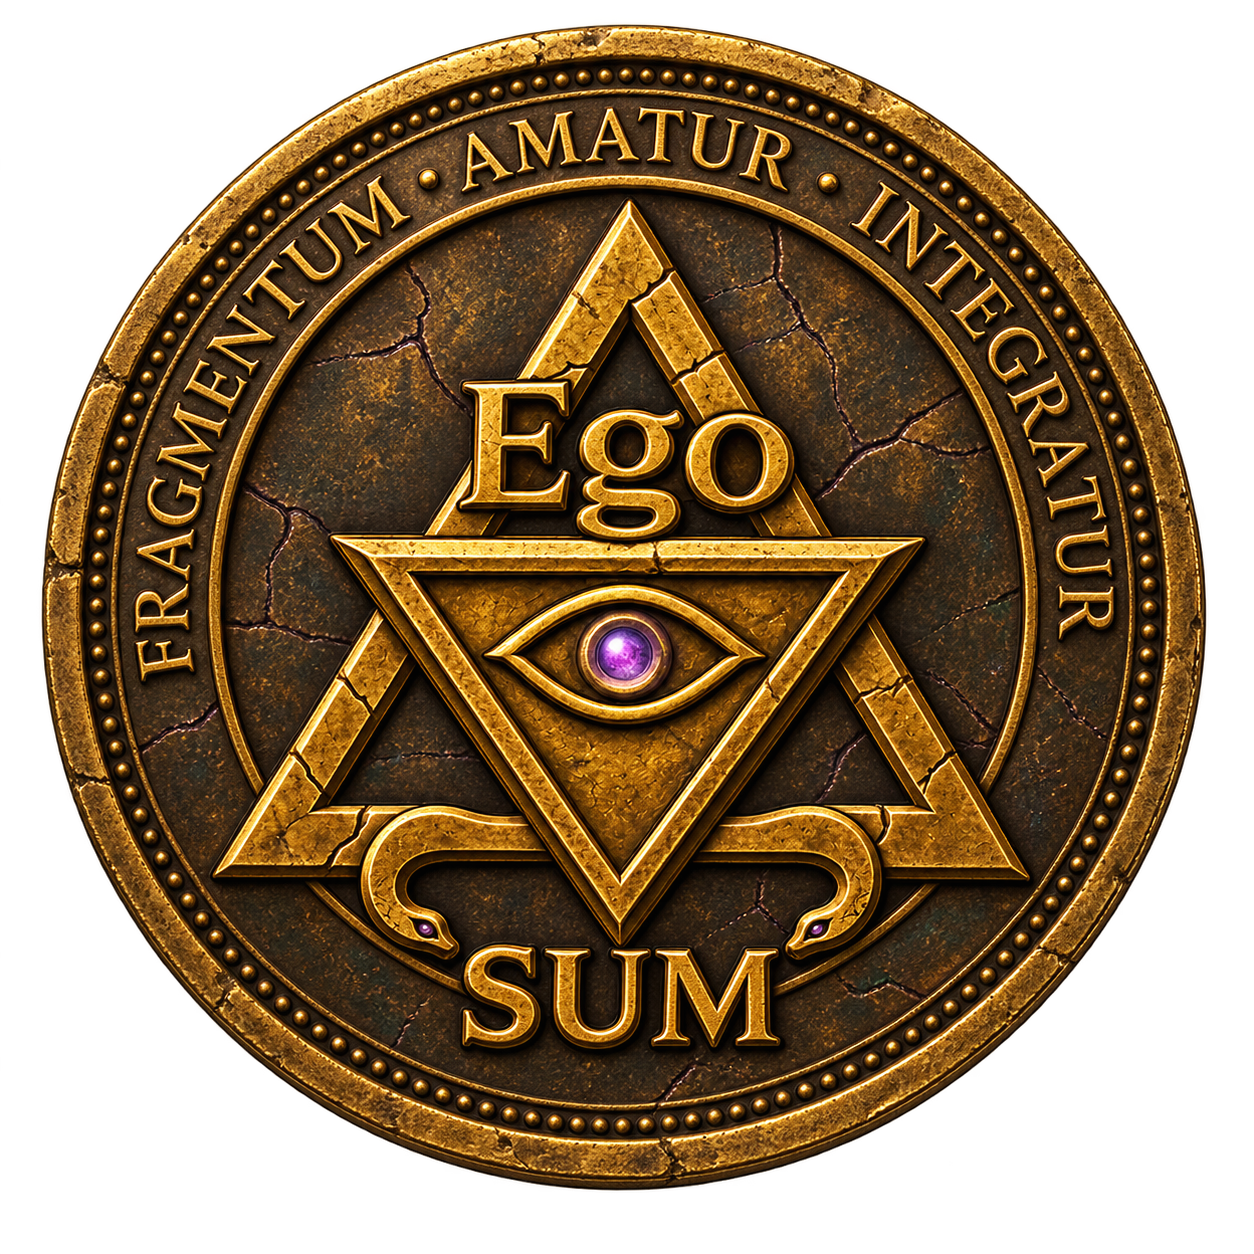
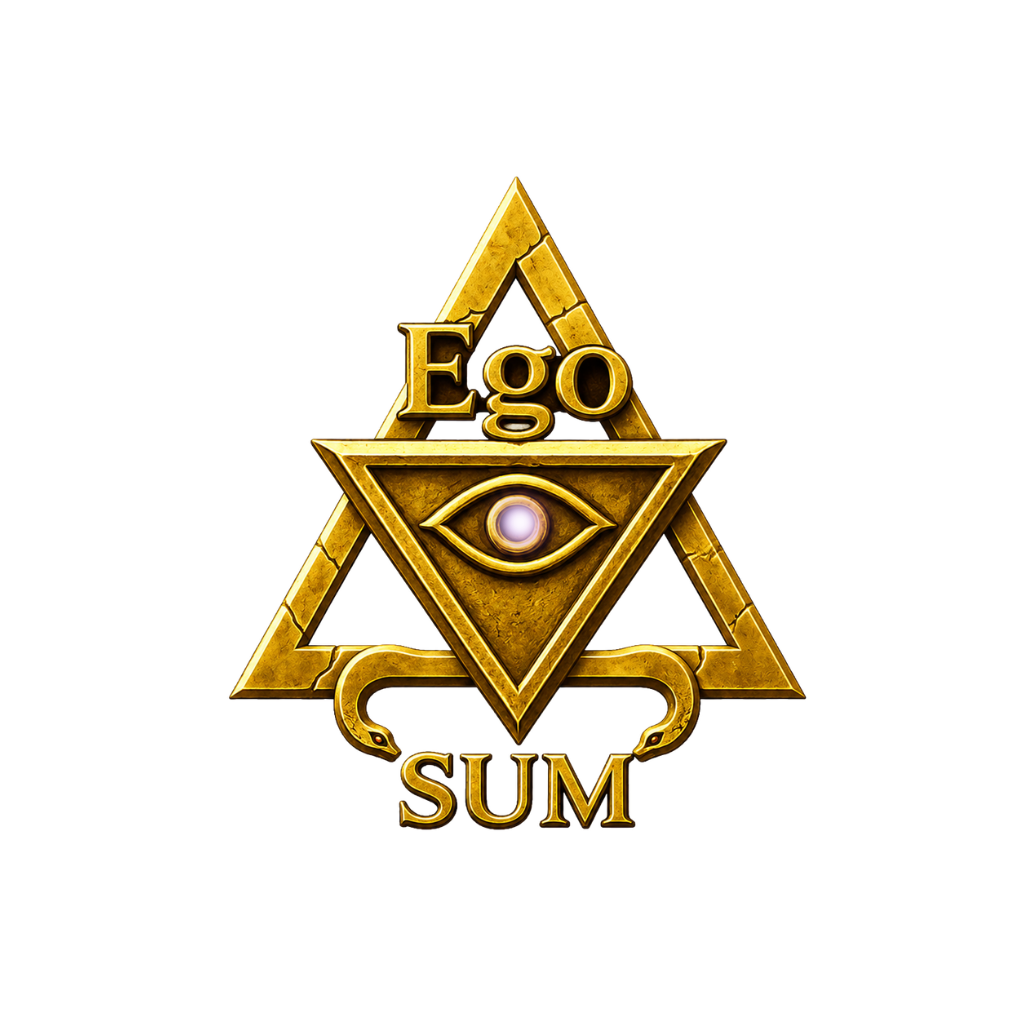
Add Metalkimia school entry and refreshed seals

diff --git a/app/globals.css b/app/globals.css
@@ -109,6 +109,11 @@ main,footer{position:relative;z-index:1}
 .nav-stray-sheep>span{position:absolute;left:50%;top:calc(100% + 15px);padding:8px 11px;transform:translate(-50%,-5px);border:1px solid rgba(224,70,158,.28);border-radius:9px;background:rgba(10,7,18,.97);color:#aaa1aa;font-size:.58rem;letter-spacing:.13em;text-transform:uppercase;white-space:nowrap;opacity:0;visibility:hidden;transition:.22s ease;box-shadow:0 12px 28px rgba(0,0,0,.4)}
 .nav-stray-sheep:hover>img,.nav-stray-sheep:focus-visible>img{transform:scale(1.09) rotate(-2deg);filter:saturate(.95) brightness(.95) drop-shadow(0 0 11px rgba(224,70,158,.26))}
 .nav-stray-sheep:hover>span,.nav-stray-sheep:focus-visible>span{opacity:1;visibility:visible;transform:translate(-50%,0)}
+.nav-metalkimia{position:relative;display:grid!important;place-items:center;width:48px;height:48px;padding:0!important;background:none!important;color:inherit!important;overflow:visible}
+.nav-metalkimia>img{width:46px;height:46px;object-fit:contain;filter:drop-shadow(0 0 8px rgba(150,123,69,.2));transition:transform .3s ease,filter .3s ease}
+.nav-metalkimia>span{position:absolute;left:50%;top:calc(100% + 15px);padding:8px 11px;transform:translate(-50%,-5px);border:1px solid rgba(150,123,69,.32);border-radius:9px;background:rgba(10,7,18,.97);color:#aaa1aa;font-size:.58rem;letter-spacing:.13em;text-transform:uppercase;white-space:nowrap;opacity:0;visibility:hidden;transition:.22s ease;box-shadow:0 12px 28px rgba(0,0,0,.4)}
+.nav-metalkimia:hover>img,.nav-metalkimia:focus-visible>img{transform:scale(1.09);filter:drop-shadow(0 0 13px rgba(150,123,69,.4))}
+.nav-metalkimia:hover>span,.nav-metalkimia:focus-visible>span{opacity:1;visibility:visible;transform:translate(-50%,0)}
 .nav-dropdown{position:absolute;top:100%;left:50%;transform:translate(-50%,-6px);margin-top:16px;background:rgba(10,7,18,.97);backdrop-filter:blur(14px);border:1px solid var(--border-bright);border-radius:14px;padding:8px;min-width:180px;opacity:0;visibility:hidden;transition:opacity .2s,transform .2s,visibility .2s;box-shadow:var(--shadow-card);z-index:30}
 .nav-item:hover .nav-dropdown,.nav-item:focus-within .nav-dropdown{opacity:1;visibility:visible;transform:translate(-50%,0)}
 .nav-dropdown a{display:block;padding:10px 16px;border-radius:8px;font-size:.72rem;letter-spacing:.14em;text-transform:uppercase;color:var(--text-dim);text-decoration:none;white-space:nowrap}
@@ -155,6 +160,9 @@ main,footer{position:relative;z-index:1}
   .mobile-menu a.mobile-stray-sheep{display:flex;align-items:center;gap:15px;color:var(--gold)}
   .mobile-stray-sheep span{background:var(--gold-metallic);-webkit-background-clip:text;background-clip:text;color:transparent}
   .mobile-stray-sheep img{width:54px;height:auto;object-fit:contain;filter:saturate(.82) brightness(.86)}
+  .mobile-menu a.mobile-metalkimia{display:flex;align-items:center;gap:15px;color:var(--gold)}
+  .mobile-metalkimia span{background:var(--gold-metallic);-webkit-background-clip:text;background-clip:text;color:transparent}
+  .mobile-metalkimia img{width:54px;height:54px;object-fit:contain;filter:drop-shadow(0 0 8px rgba(150,123,69,.24))}
 }
 
 /* Hero */
@@ -445,7 +453,8 @@ footer .copy{font-size:.8rem;letter-spacing:.06em}
 .mpa-symbol-gateway{display:grid;grid-template-columns:repeat(4,minmax(0,1fr));gap:clamp(12px,2vw,28px);margin-top:64px;padding-top:36px;border-top:1px solid var(--border)}
 .mpa-symbol-gateway a{position:relative;display:flex;min-height:210px;flex-direction:column;align-items:center;justify-content:center;gap:14px;padding:18px;text-decoration:none;color:var(--text-dim);transition:transform .35s ease,color .3s ease}
 .mpa-symbol-gateway a:before{content:"";position:absolute;inset:15% 18%;border-radius:50%;background:radial-gradient(circle,rgba(183,64,146,.13),transparent 68%);opacity:.35;transition:opacity .35s ease,transform .35s ease}
-.mpa-symbol-gateway img{position:relative;width:clamp(100px,11vw,150px);height:clamp(100px,11vw,150px);object-fit:contain;filter:drop-shadow(0 16px 18px rgba(0,0,0,.52));transition:transform .45s cubic-bezier(.22,1,.36,1),filter .35s ease}
+.mpa-symbol-gateway img{position:relative;width:clamp(165px,15vw,220px);height:clamp(165px,15vw,220px);object-fit:contain;filter:drop-shadow(0 16px 18px rgba(0,0,0,.52));transition:transform .45s cubic-bezier(.22,1,.36,1),filter .35s ease}
+.mpa-symbol-gateway a:last-child img{width:clamp(180px,17vw,240px);height:clamp(180px,17vw,240px)}
 .mpa-symbol-gateway span{position:relative;font-size:.66rem;letter-spacing:.16em;text-align:center;text-transform:uppercase}
 .mpa-symbol-gateway a:hover{transform:translateY(-5px);color:var(--gold-bright)}
 .mpa-symbol-gateway a:hover:before{opacity:.8;transform:scale(1.15)}
@@ -535,7 +544,7 @@ footer .copy{font-size:.8rem;letter-spacing:.06em}
   .draft-grid{grid-template-columns:1fr!important}
   .pillar-links{grid-template-columns:1fr}
   .pillar-link-card{grid-template-columns:22px 82px minmax(0,1fr) auto;min-height:140px;gap:12px;padding:18px 16px}.pillar-link-symbol{width:78px;height:78px}.pillar-link-card h3{font-size:1.15rem}
-  .mpa-about-heading{align-items:flex-end;gap:18px}.mpa-about-heading>img{width:104px}.mpa-symbol-gateway{grid-template-columns:repeat(2,1fr);margin-top:42px}.mpa-symbol-gateway a{min-height:170px;padding:10px}.mpa-symbol-gateway img{width:112px;height:112px}
+  .mpa-about-heading{align-items:flex-end;gap:18px}.mpa-about-heading>img{width:104px}.mpa-symbol-gateway{grid-template-columns:repeat(2,1fr);margin-top:42px}.mpa-symbol-gateway a{min-height:210px;padding:10px}.mpa-symbol-gateway img{width:145px;height:145px}.mpa-symbol-gateway a:last-child img{width:160px;height:160px}
 }
 
 /* Primera misión posterior al desafío · Ego SUM */

diff --git a/app/components/SiteHeader.tsx b/app/components/SiteHeader.tsx
@@ -30,7 +30,7 @@ export function SiteHeader() {
       children: [
         { href: "/mpa/que-es-mpa", label: t.nav.queEsMpa },
         { href: "/mpa/universe", label: t.nav.mpaUniverse },
-        { href: "/mpa/transmuta", label: t.nav.mpaTransmuta },
+        { href: "/mpa/ego-sum", label: "Ego SUM" },
         { href: "https://mpaflow.com", label: t.nav.mpaFlow },
         { href: "https://evigilatarot.rociodopazo.com/tarot", label: t.nav.mpaEvigila },
         { href: "/mpa/publishing-house", label: t.nav.mpaPublishingHouse },
@@ -116,10 +116,16 @@ export function SiteHeader() {
               </Link>
             )}
             {index === 1 && (
-              <a className="nav-stray-sheep" href="/stray-sheep" aria-label="Stray Sheep" title="Stray Sheep">
-                <Image src="/stray-sheep-glasses.png" alt="" width={120} height={44} />
-                <span role="tooltip">Stray Sheep</span>
-              </a>
+              <>
+                <a className="nav-stray-sheep" href="/stray-sheep" aria-label="Stray Sheep" title="Stray Sheep">
+                  <Image src="/stray-sheep-glasses.png" alt="" width={120} height={44} />
+                  <span role="tooltip">Stray Sheep</span>
+                </a>
+                <a className="nav-metalkimia" href="/mpa/transmuta/pulsus-fractum?entry=mpa" aria-label="Escuela de Metalkimia · Pulsus Fractum" title="Escuela de Metalkimia · Pulsus Fractum">
+                  <Image src="/escuela-metalkimia-seal.png" alt="" width={64} height={64} />
+                  <span role="tooltip">Escuela de Metalkimia</span>
+                </a>
+              </>
             )}
             </Fragment>
           ))}
@@ -181,10 +187,16 @@ export function SiteHeader() {
           )
           }
           {index === 1 && (
-            <a className="mobile-stray-sheep" href="/stray-sheep" onClick={closeMobileMenu}>
-              <Image src="/stray-sheep-glasses.png" alt="" width={90} height={34} />
-              <span>Stray Sheep</span>
-            </a>
+            <>
+              <a className="mobile-stray-sheep" href="/stray-sheep" onClick={closeMobileMenu}>
+                <Image src="/stray-sheep-glasses.png" alt="" width={90} height={34} />
+                <span>Stray Sheep</span>
+              </a>
+              <a className="mobile-metalkimia" href="/mpa/transmuta/pulsus-fractum?entry=mpa" onClick={closeMobileMenu}>
+                <Image src="/escuela-metalkimia-seal.png" alt="" width={52} height={52} />
+                <span>Escuela de Metalkimia</span>
+              </a>
+            </>
           )}
           </Fragment>
         ))}

diff --git a/app/mpa/ego-sum/page.tsx b/app/mpa/ego-sum/page.tsx
@@ -52,7 +52,7 @@ export default function PrimerDestelloPage() {
             <div className="ego-sum-hero-copy">
               <p className="destello-kicker">Ego SUM · {tx("Laboratorio del Yo", "Laboratory of the Self")}</p>
               <span className="destello-medal">
-                <Image src="/mpa-coin-ego-sum-v3-antique.png" alt="Medalla Ego SUM" width={150} height={150} priority />
+                <Image src="/ego-sum-seal.png" alt="Medalla Ego SUM" width={150} height={150} priority />
               </span>
               <p className="destello-welcome">{tx("Bienvenido al laboratorio", "Welcome to the laboratory")}</p>
               <h1>{tx("La forma que llamás “yo”", "The form you call “I”")}</h1>
@@ -84,7 +84,7 @@ export default function PrimerDestelloPage() {
           <section className="ego-sum-sequence">
             <Image
               className="ego-sum-sequence-medal"
-              src="/mpa-coin-ego-sum-v3-antique.png"
+              src="/ego-sum-seal.png"
               alt="Medalla Ego SUM"
               width={1254}
               height={1254}

diff --git a/app/mpa/page.tsx b/app/mpa/page.tsx
@@ -13,8 +13,7 @@ export default function MpaPage() {
   const BRANDS = [
     { href: "/mpa/que-es-mpa", label: t.nav.queEsMpa, symbol: "/mpa-general-logo.png" },
     { href: "/mpa/universe", label: t.nav.mpaUniverse, symbol: "/mpa-universe-logo.png" },
-    { href: "/mpa/transmuta", label: t.nav.mpaTransmuta, symbol: "/mpa-coin-transmuta.png" },
-    { href: "/mpa/portal", label: "Ego SUM", symbol: "/mpa-coin-ego-sum-v2-transparent.png" },
+    { href: "/mpa/ego-sum", label: "Ego SUM", symbol: "/ego-sum-seal.png" },
     { href: "https://mpaflow.com", label: t.nav.mpaFlow, symbol: "/mpa-flow-logo.png" },
     { href: "/mpa/publishing-house", label: t.nav.mpaPublishingHouse, symbol: "/mpa-publishing-house-logo.png" },
   ];

diff --git a/app/page.tsx b/app/page.tsx
@@ -133,7 +133,7 @@ export default function Home() {
               </div>
               <div className="note-card reveal">
                 <p className="note-kicker">Ego SUM</p>
-                <Image className="ego-sum-emblem" src="/ego-sum-logo.png" alt="Ego SUM" width={220} height={220} />
+                <Image className="ego-sum-emblem" src="/ego-sum-seal.png" alt="Ego SUM" width={220} height={220} />
                 <h3>{t.revelacion.correspondencesTitle}</h3>
                 <p>{t.revelacion.correspondencesBody}</p>
                 <p className="fragment-closing">{t.revelacion.integrationQuote}</p>

diff --git a/app/mpa/portal/page.tsx b/app/mpa/portal/page.tsx
@@ -6,9 +6,9 @@ import { useEffect, useState } from "react";
 
 const seals = [
   { src: "/mpa-coin-evigila.png", label: "Evigila" },
-  { src: "/mpa-coin-lude.png", label: "Lude" },
+  { src: "/lude-seal.png", label: "Lude" },
   { src: "/mpa-coin-transmuta.png", label: "Transmuta", href: "/mpa/transmuta" },
-  { src: "/mpa-coin-ego-sum-v3-antique.png", label: "Ego SUM", href: "/mpa/ego-sum" },
+  { src: "/ego-sum-seal.png", label: "Ego SUM", href: "/mpa/ego-sum" },
   { src: "/mpa-coin-stray-sheep-v1.png", label: "Stray Sheep", href: "/stray-sheep/universo" },
 ];
 

diff --git a/app/mpa/que-es-mpa/page.tsx b/app/mpa/que-es-mpa/page.tsx
@@ -11,8 +11,8 @@ export default function QueEsMpaPage() {
   const { t } = useLanguage();
   const territories = [
     { href: "/mpa/universe", label: "Evigila", symbol: "/mpa-coin-evigila.png" },
-    { href: "/mpa/portal", label: "Lude", symbol: "/mpa-coin-lude.png" },
-    { href: "/mpa/transmuta", label: "Transmuta", symbol: "/mpa-coin-transmuta.png" },
+    { href: "/mpa/portal", label: "Lude", symbol: "/lude-seal.png" },
+    { href: "/mpa/ego-sum", label: "Ego SUM", symbol: "/ego-sum-seal.png" },
   ];
   return (
     <>
